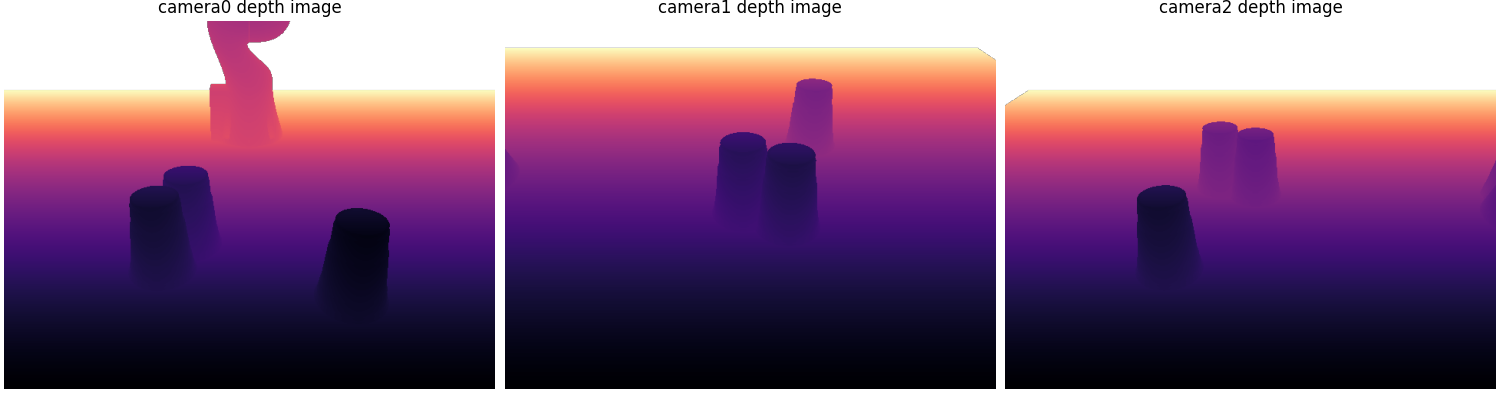
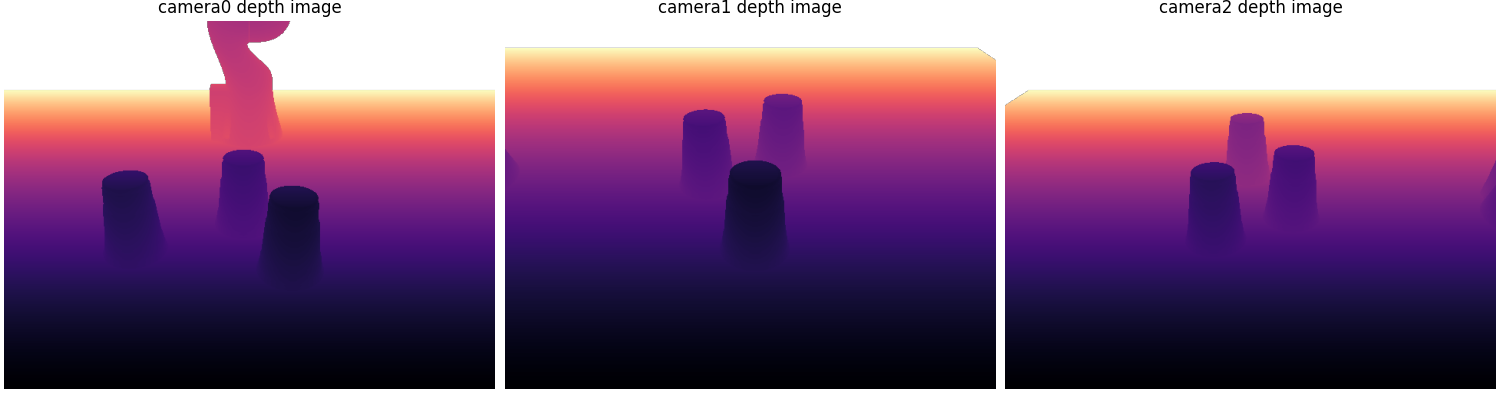
refactored FINALLY

Changed region(s): [[0.0613, 0.36, 0.276, 0.78], [0.4293, 0.18, 0.5827, 0.63], [0.736, 0.27, 0.8893, 0.69]]

diff --git a/src/StackBot.py b/src/StackBot.py
@@ -1,29 +1,18 @@
-import numpy as np
 
 from pydrake.all import (
-    Concatenate,
-    DiagramBuilder,
     Integrator,
-    RigidTransform,
-    RollPitchYaw,
-    RotationMatrix,
     Simulator,
     StartMeshcat,
     TrajectorySource,
 )
 
-from manipulation.icp import IterativeClosestPoint
-from manipulation.station import (
-    LoadScenario,
-    MakeHardwareStation,
-)
-
 from setup.scene_setup import create_stackbot_scene
-from setup.cup_placement import place_cup_randomly_on_table
+from setup.cup_placement import place_cups_randomly_nonoverlapping
 from perception_module.point_clouds import make_point_clouds
 from perception_module.icp import crop_point_clouds_run_icp
 from control_module.PseudoInverseController import PseudoInverseController
 from manipulation_module.poses import *
+from manipulation_module.keyframes import make_keyframes
 
 MAX_ITERATIONS = 25
 N_SAMPLE_POINTS = 150
@@ -54,11 +43,8 @@ def stackbot():
     cup_names = ["left", "right", "top"]
     cup_models = [cup_left_model, cup_right_model, cup_top_model]
 
-    # place cups randomly
-    X_WC_left = place_cup_randomly_on_table(plant, plant_context, cup_left_body)
-    X_WC_right = place_cup_randomly_on_table(plant, plant_context, cup_right_body)
-    X_WC_top = place_cup_randomly_on_table(plant, plant_context, cup_top_body)
-    all_X_WC = [X_WC_left, X_WC_right, X_WC_top]
+    # place cups
+    place_cups_randomly_nonoverlapping(plant, plant_context, cup_bodies)
 
     diagram.ForcedPublish(context)
     print("------------- Scene setup complete. -------------")
@@ -74,61 +60,24 @@ def stackbot():
     # -----------------------------------------------------------------------------
     # MANIPULATION MODULE 
     # -----------------------------------------------------------------------------
-   
-    # builder2 = DiagramBuilder()
-    # scenario_path = (
-    #     "scenarios/bimanual_IIWA14_with_table_and_cameras.scenario.yaml"
-    # )
-    # scenario = LoadScenario(filename=scenario_path)
 
-    # # Create new station
-    # station = builder2.AddSystem(MakeHardwareStation(scenario, meshcat=meshcat))
-    # plant = station.GetSubsystemByName("plant")
-    
-    # === Step 4: Run ICP for all three cups ===
-    
-    # === Step 5: Build trajectory for all three cups ===
     builder, station = create_stackbot_scene(meshcat)    
     plant = station.GetSubsystemByName("plant")
     station_context = station.CreateDefaultContext()
     plant_context = plant.GetMyContextFromRoot(station_context)
 
     X_WGinitial = plant.EvalBodyPoseInWorld(plant_context, plant.GetBodyByName("body"))
-    
-    # goal positions
-    pyramid_positions = get_pyramid_positions()
+    gripper_poses, finger_values, sample_times = make_keyframes(X_WGinitial, cup_icp_results)
 
-    # Keep same orientation for all cups (lying down)
-    cup_orientation = RollPitchYaw(np.deg2rad([270, 0, -90])).ToRotationMatrix()
-
-    # keyframes
-    keyframes = [("initial", X_WGinitial, 0.1)]
-
-    cup_names_ordered = ["left", "right", "top"]
-    for i, name in enumerate(cup_names_ordered):
-        X_WC_initial = cup_icp_results[name]
-        goal_pos = pyramid_positions[i]
-        
-        # Get current gripper position (end of previous sequence)
-        current_gripper = keyframes[-1][1]
-        
-        # Generate keyframes for this cup
-        cup_keyframes = create_pick_place_trajectory(
-            X_WC_initial, current_gripper, goal_pos, cup_orientation
-        )
-        
-        keyframes.extend(cup_keyframes)
-
-    # Extract poses and gripper commands
-    gripper_poses = [kf[1] for kf in keyframes]
-    finger_states = np.array([[kf[2] for kf in keyframes]])
-    sample_times = [2.5 * i for i in range(len(keyframes))]
-    
-  
     # Create trajectories
-    traj_V_G, traj_wsg_command = make_trajectory(gripper_poses, finger_states, sample_times)
+    traj_V_G, traj_wsg_command = make_trajectory(gripper_poses, finger_values, sample_times)
+    
+    print("------------- Manipulation module complete. -------------")
 
-    # === Step 5: Add controller systems ===
+    # -----------------------------------------------------------------------------
+    # CONTROL MODULE 
+    # -----------------------------------------------------------------------------
+
     V_G_source = builder.AddSystem(TrajectorySource(traj_V_G))
     controller = builder.AddSystem(PseudoInverseController(plant))
     integrator = builder.AddSystem(Integrator(7))
@@ -140,10 +89,13 @@ def stackbot():
     builder.Connect(station.GetOutputPort("iiwa.position_measured"), controller.GetInputPort("iiwa.position"))
     builder.Connect(wsg_source.get_output_port(), station.GetInputPort("wsg.position"))
     
-
     diagram = builder.Build()
-
-    # === Step 7: Create simulator and set initial cup poses ===
+    
+    print("------------- Control module complete. -------------")
+    
+    # -----------------------------------------------------------------------------
+    # SIMULATION
+    # -----------------------------------------------------------------------------
     simulator = Simulator(diagram)
     context = simulator.get_mutable_context()
     
@@ -155,29 +107,18 @@ def stackbot():
     station_context = station.GetMyMutableContextFromRoot(context)
     diagram.ForcedPublish(context)
 
-    # cup_models = {
-    #     "left": plant.GetModelInstanceByName("cup_lower_left"),
-    #     "right": plant.GetModelInstanceByName("cup_lower_right"),
-    #     "top": plant.GetModelInstanceByName("cup_top")
-    # }
-
-
-    # === Step 8: Run Simulation ===
     integrator_context = integrator.GetMyMutableContextFromRoot(context)
     current_iiwa_position = plant.GetPositions(plant_context, plant.GetModelInstanceByName("iiwa"))
     integrator.set_integral_value(integrator_context, current_iiwa_position)
 
-    # Force publish to see initial state
-
     print(f"Simulation will run for {traj_V_G.end_time()} seconds")
 
-    # Run simulation with recording
     meshcat.StartRecording()
     simulator.AdvanceTo(traj_V_G.end_time())
     meshcat.StopRecording()
     meshcat.PublishRecording()
 
-    print("Pick and place simulation complete!")
+    print("Completed!")
 
 
 if __name__ == "__main__":

diff --git a/src/manipulation_module/keyframes.py b/src/manipulation_module/keyframes.py
@@ -1,0 +1,104 @@
+import numpy as np
+
+from pydrake.all import (
+    RigidTransform,
+    RollPitchYaw,
+)
+
+from manipulation_module.poses import *
+
+def make_keyframes(X_WGinitial, cup_icp_results):
+    opened = 0.1
+    closed = 0.05
+
+    cup_order = ["left", "right", "top"]
+    dt = 0.5
+
+    gripper_poses = []
+    finger_cmds = []
+    sample_times = []
+
+    t = 0.0
+    current_X_WG = X_WGinitial
+
+    gripper_poses.append(current_X_WG)
+    finger_cmds.append(opened)
+    sample_times.append(t)
+    
+    xy_list = []
+    for name in cup_order:
+        X_WC_hat = cup_icp_results[name]
+        xy_list.append(X_WC_hat.translation()[:2])
+    xy_list = np.array(xy_list)
+    center_xy = xy_list.mean(axis=0)
+
+    # Orientation for all cups in the pyramid (lying on their side)
+    rpy_cup_goal = RollPitchYaw(np.deg2rad([270, 0, -90]))
+    
+    pyramid_positions = get_pyramid_positions(center_xy)
+
+    cup_goal_poses = {
+        "left":  RigidTransform(rpy_cup_goal, pyramid_positions[0]),
+        "right": RigidTransform(rpy_cup_goal, pyramid_positions[1]),
+        "top":   RigidTransform(rpy_cup_goal, pyramid_positions[2]),
+    }
+
+    for name in cup_order:
+        print(f"Planning segment for cup: {name}")
+
+        X_WC_initial = cup_icp_results[name]   # ICP estimate
+        X_WC_goal    = cup_goal_poses[name]      # pyramid pose
+
+        # Grasp at initial pose
+        X_CG, X_WGpick = design_grasp_pose(X_WC_initial)
+        X_WGprepick = design_pregrasp_pose(X_WGpick, dz=0.15)
+
+        # Gripper at goal pose
+        X_WGgoal = X_WC_goal @ X_CG
+        X_WGpregoal = design_pregoal_pose(X_WGgoal, dz=0.10)
+        X_WGpostgoal = design_postgoal_pose(X_WGgoal, dz=0.15)
+
+        X_WGsafe = make_safe_pose_above_workspace(current_X_WG, z_safe=0.5)
+        X_WGabove_cup = make_above_pose(X_WGprepick, dz=0.15)
+        X_WGabove_goal = make_above_pose(X_WGpregoal, dz=0.15)
+
+        local_sequence = [
+            (X_WGsafe,        opened),
+            (X_WGabove_cup,   opened),
+            (X_WGprepick,     opened),
+            (X_WGpick,        opened),
+            (X_WGpick,        closed),
+            (X_WGprepick,     closed),
+            (X_WGabove_cup,   closed),
+            (X_WGsafe,        closed),
+            (X_WGabove_goal,  closed),
+            (X_WGpregoal,     closed),
+            (X_WGgoal,        closed),
+            (X_WGgoal,        opened),
+            (X_WGpostgoal,    opened),
+            (X_WGabove_goal,  opened),
+            (X_WGsafe,        opened),
+        ]
+
+        for X_WG, wsg in local_sequence:
+            t += dt
+            gripper_poses.append(X_WG)
+            finger_cmds.append(wsg)
+            sample_times.append(t)
+
+        current_X_WG = local_sequence[-1][0]
+
+    # Return to initial pose at the end
+    X_WGsafe_final = make_safe_pose_above_workspace(current_X_WG, z_safe=0.5)
+    t += dt
+    gripper_poses.append(X_WGsafe_final)
+    finger_cmds.append(opened)
+    sample_times.append(t)
+
+    t += dt
+    gripper_poses.append(X_WGinitial)
+    finger_cmds.append(opened)
+    sample_times.append(t)
+
+    finger_values = np.array([finger_cmds])
+    return gripper_poses, finger_values, sample_times

diff --git a/src/manipulation_module/poses.py b/src/manipulation_module/poses.py
@@ -84,33 +84,37 @@ def design_postgoal_pose(X_WG: RigidTransform, dz: float = 0.15):
     p[2] += dz
     return RigidTransform(X_WG.rotation(), p)
 
-def make_trajectory(X_Gs: list[RigidTransform], finger_values: np.ndarray, sample_times: list[float]):
-    """
-    Create smooth trajectory through keyframes.
-    """
+def make_trajectory(X_Gs, finger_values, sample_times):
     robot_position_trajectory = PiecewisePose.MakeLinear(sample_times, X_Gs)
     robot_velocity_trajectory = robot_position_trajectory.MakeDerivative()
     traj_wsg_command = PiecewisePolynomial.FirstOrderHold(sample_times, finger_values)
     return robot_velocity_trajectory, traj_wsg_command
 
-def get_pyramid_positions():
+def get_pyramid_positions(center_xy: np.ndarray,
+                          z_base: float = 0.15,
+                          z_top: float = 0.35,
+                          base_spacing: float = 0.12):
     """
-    Define positions for a 3-cup pyramid (2 base cups + 1 top cup).
-    Returns positions for [left_base, right_base, top].
+    Define positions for a 3-cup pyramid (2 base cups + 1 top cup),
+    centered around center_xy = [x, y].
+
+    Returns positions [left_base, right_base, top] in WORLD frame.
     """
-    # Center of pyramid on table
-    pyramid_center = np.array([0.0, 0.0, 0.0])
-    
-    base_spacing = 0.12  
-    z_base = 0.15
-    
-    left_base = pyramid_center + np.array([-base_spacing/2, 0, z_base])
-    right_base = pyramid_center + np.array([base_spacing/2, 0, z_base])
-    
-    z_top = 0.34  
-    top_pos = pyramid_center + np.array([0, 0, z_top])
-    
+    cx, cy = center_xy
+
+    left_base  = np.array([cx - base_spacing / 2.0, cy, z_base])
+    right_base = np.array([cx + base_spacing / 2.0, cy, z_base])
+    top_pos    = np.array([cx, cy, z_top])
+
     return [left_base, right_base, top_pos]
+
+def make_safe_pose_above_workspace(X_WG_ref, z_safe=0.5):
+    return RigidTransform(X_WG_ref.rotation(), [0.0, 0.0, z_safe])
+
+def make_above_pose(X_WG_ref, dz=0.15):
+    p = X_WG_ref.translation().copy()
+    p[2] += dz
+    return RigidTransform(X_WG_ref.rotation(), p)
 
 scenario_path = "scenarios/bimanual_IIWA14_with_table_and_cameras.scenario.yaml"
 

diff --git a/src/setup/cup_placement.py b/src/setup/cup_placement.py
@@ -5,24 +5,51 @@ from pydrake.all import (
     RollPitchYaw,
 )
 
-def place_cup_randomly_on_table(plant, plant_context, body):
-    # Table top is at z = 0.0, so we give a small lift
+def place_cups_randomly_nonoverlapping(
+    plant,
+    plant_context,
+    bodies,
+    min_distance=0.12,
+    max_attempts=100,
+):
+    """
+    Randomly place cups on the table such that they do NOT overlap in x–y.
+
+    Args:
+        plant: MultibodyPlant
+        plant_context: context for plant
+        bodies: list of cup Body objects
+        min_distance: minimum allowed distance between cup centers (meters)
+        max_attempts: retries before giving up
+    """
     z = 0.15
-    
-    # Robot workspace bounding box (tune as needed)
-    extrema = 0.25
-    X_MIN, X_MAX = -extrema, extrema
-    Y_MIN, Y_MAX = -extrema+0.1, extrema+0.1
-
-    x = np.random.uniform(X_MIN, X_MAX)
-    y = np.random.uniform(Y_MIN, Y_MAX)
-
-    # Keep cup lying-down orientation same as before
     rpy = RollPitchYaw(np.deg2rad([270, 0, -90]))
 
-    X_WC = RigidTransform(rpy, [x, y, z])
-    plant.SetFreeBodyPose(plant_context, body, X_WC)
-    
-    return X_WC
+    extrema = 0.25
+    X_MIN, X_MAX = -extrema, extrema
+    Y_MIN, Y_MAX = -extrema + 0.1, extrema + 0.1
+
+    placed_positions = []
+    all_XWCs = []
+
+    for body in bodies:
+       for _ in range(max_attempts):
+            x = np.random.uniform(X_MIN, X_MAX)
+            y = np.random.uniform(Y_MIN, Y_MAX)
+            candidate = np.array([x, y])
+
+            # Check distance from previously placed cups
+            if all(
+                np.linalg.norm(candidate - prev[:2]) >= min_distance
+                for prev in placed_positions
+            ):
+                X_WC = RigidTransform(rpy, [x, y, z])
+                plant.SetFreeBodyPose(plant_context, body, X_WC)
+                placed_positions.append(np.array([x, y, z]))
+                all_XWCs.append(X_WC)
+                break
+
+
+    return all_XWCs
     
     
